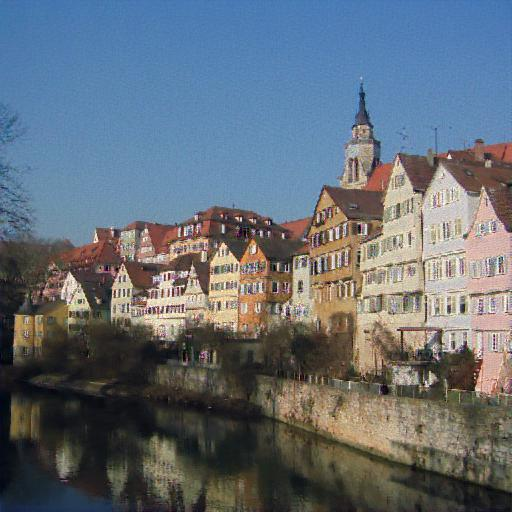
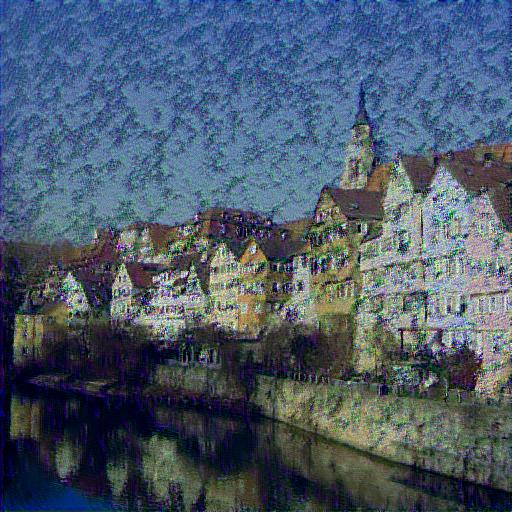
test

diff --git a/stylenet/stylenet.py b/stylenet/stylenet.py
@@ -20,7 +20,7 @@ from shutil import rmtree
 IMAGE_DIM = (512, 512)
 INPUT_SHAPE = (None, IMAGE_DIM[0], IMAGE_DIM[1], 3)
 CONTENT_WEIGHT = 0.025
-STYLE_WEIGHT = 5.0
+STYLE_WEIGHT = 500.0
 TOTAL_VARIATION_WEIGHT = 1e-4
 
 CONTENT_LAYER = 'block2_conv2'
